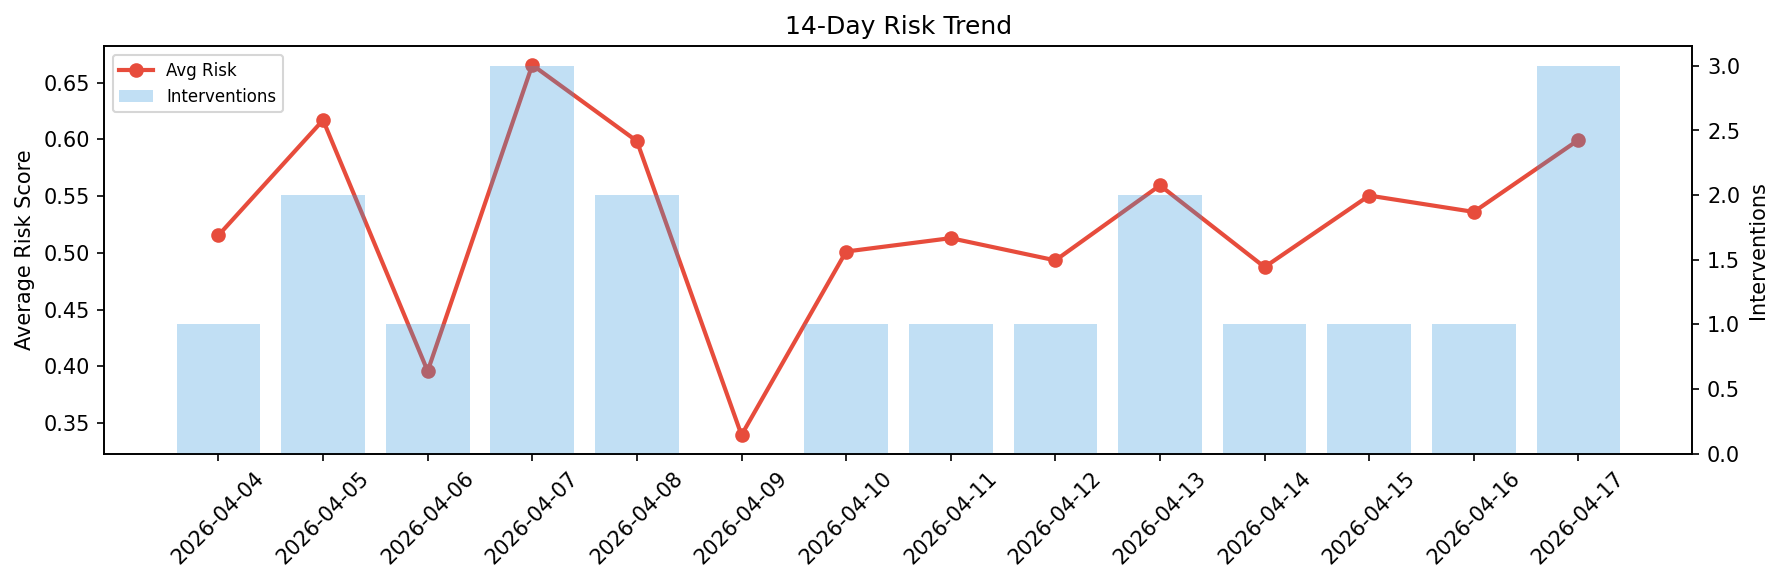
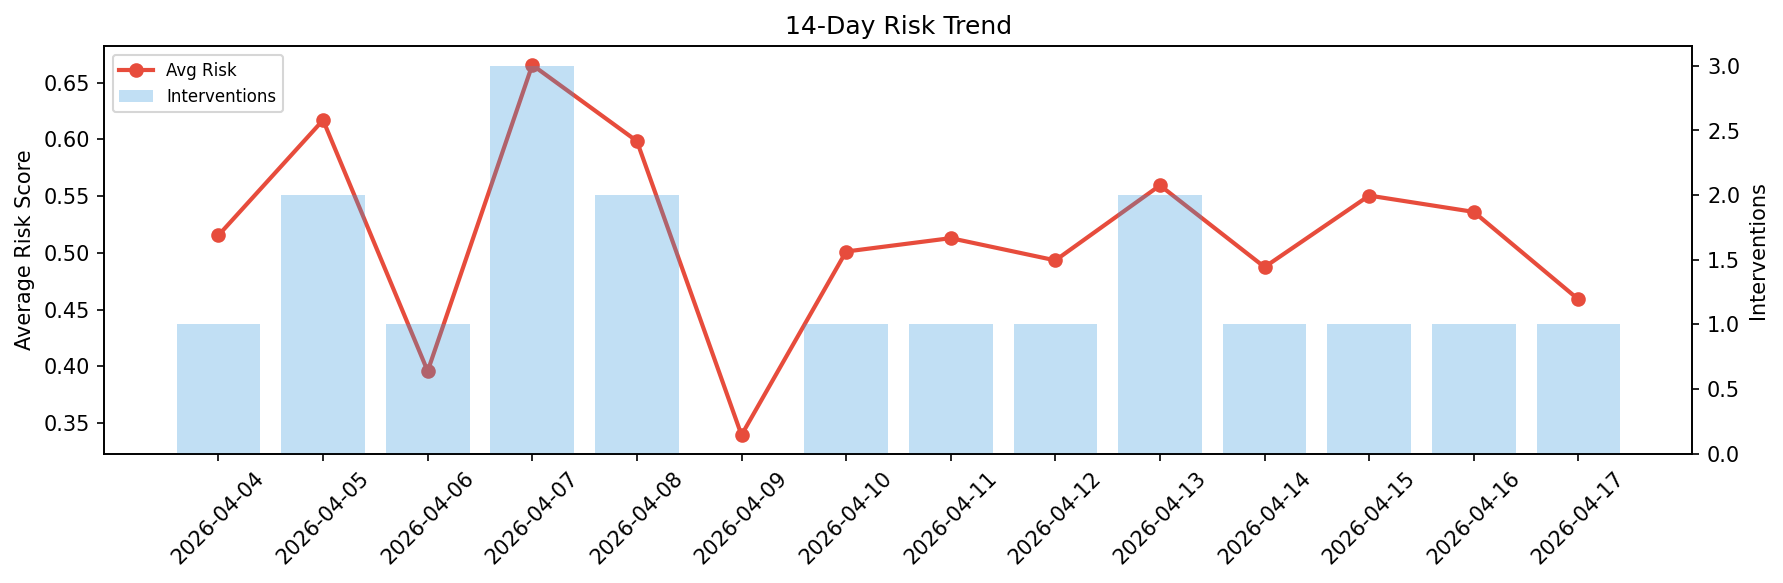
agent-improvement: daily cycle 2026-04-17T21:02

Changed region(s): [[0.8329, 0.0926, 0.9254, 0.5557]]

diff --git a/logs/2026-04-17.md b/logs/2026-04-17.md
@@ -1,6 +1,6 @@
 # Agent Improvement Report — 2026-04-17
 
-**Cycle ID:** `54a3399e` | **Avg Risk:** 0.5994 | **Interventions:** 3/4
+**Cycle ID:** `37fdcc73` | **Avg Risk:** 0.4589 | **Interventions:** 1/4
 
 ![Dashboard](2026-04-17_dashboard.png)
 
@@ -10,18 +10,18 @@
 
 | Domain | Risk Score | Decision | Alerts |
 |--------|-----------|----------|--------|
-| code_review | 0.6294 | intervene | complexity |
-| incident_response | 0.2841 | monitor | none |
-| data_pipeline | 0.7796 | intervene | freshness, volume_anomaly |
-| deployment | 0.7045 | intervene | rollback_rate |
+| code_review | 0.6327 | intervene | duplication, coverage |
+| incident_response | 0.3795 | monitor | none |
+| data_pipeline | 0.3673 | monitor | none |
+| deployment | 0.4563 | monitor | none |
 
 ## Delta vs Yesterday
 
 | Domain | Today | Yesterday | Change |
 |--------|-------|-----------|--------|
-| code_review | 0.6294 | 0.5584 | 📈 12.7% |
-| incident_response | 0.2841 | 0.7084 | 📉 -59.9% |
-| data_pipeline | 0.7796 | 0.3197 | 📈 143.9% |
-| deployment | 0.7045 | 0.5575 | 📈 26.4% |
+| code_review | 0.6327 | 0.5584 | 📈 13.3% |
+| incident_response | 0.3795 | 0.7084 | 📉 -46.4% |
+| data_pipeline | 0.3673 | 0.3197 | 📈 14.9% |
+| deployment | 0.4563 | 0.5575 | 📉 -18.2% |
 
-**Refinement:** `{'adjustment': 'tighten_thresholds', 'trend': 'degrading', 'window': 4}`
+**Refinement:** `{'adjustment': 'maintain', 'trend': 'improving', 'window': 4}`
